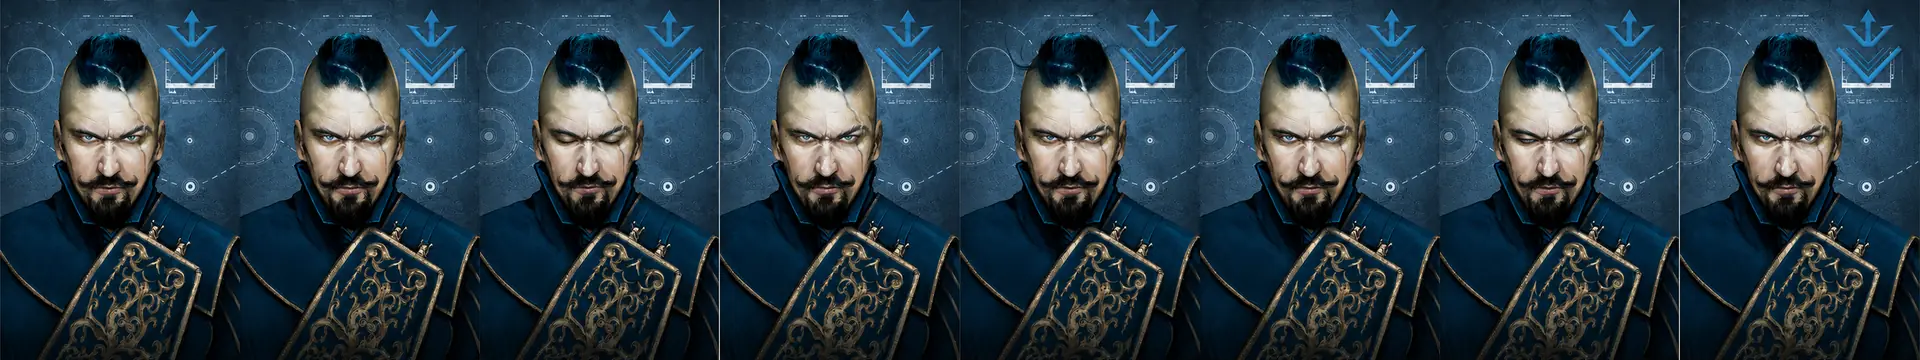
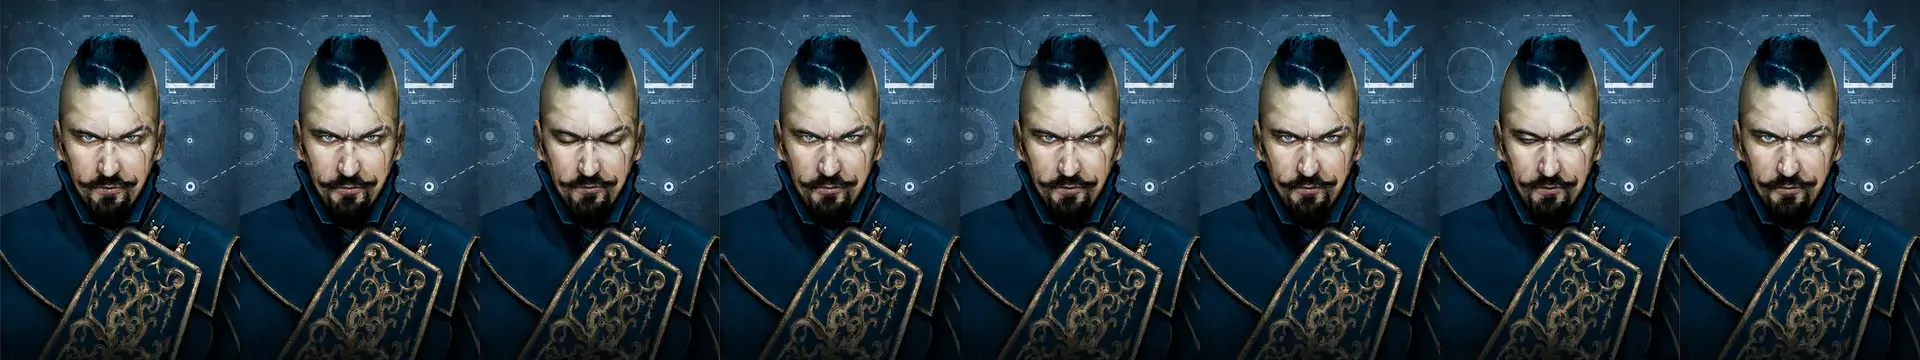
fix: Duke and Captain drifted inside their frames - it was the source art
Reported on BOTH platforms: "the cards appear to be shifting in position
inside their frames" during the idle cycle. Measured, by finding the (dx, dy)
that best aligns each frame to frame 1:

  duke     (0,0) (-1,0) (-3,0) (-4,0) (0,-3) (-1,-2) (-3,-3) (-4,-3)
  captain  (0,0) (-1,0) ( 1,0) ( 3,0) (-1,0) (-1, 0) ( 1, 0) ( 2, 0)
  ambassador / assassin / contessa   all (0,0)

Only two of five characters, which is what makes it art rather than code.
Duke's pattern names the cause: horizontal drift accumulating across four
columns, then the same horizontal pattern again with a ~3 px vertical
offset - a 4x2 source grid whose second row sits low, cut on a uniform grid.

Both converters are exonerated by proportion, not by inspection: the drift is
1 px of 64 on Saturn (1.6%) and 4 px of 240 on the web (1.7%). Scaling a
mis-registered source scales its mis-registration too; a converter bug would
not preserve the ratio across two independent pipelines.

Frames are now registered by undoing the measured shift, with the exposed
border filled by edge replication - invisible at 1-4 px on a full-bleed
portrait, where a transparent or black gap would not be.

I got the sign wrong on the first attempt and the drift DOUBLED to 8 px. That
is worth recording: the gate caught my fix making it worse, which is the
whole reason for measuring after a change rather than declaring victory on
the edit. Restored from git and applied the opposite sign; now within 1 px.
[…]

diff --git a/scripts/qa/qa_portrait_registration.py b/scripts/qa/qa_portrait_registration.py
@@ -1,0 +1,166 @@
+#!/usr/bin/env python3
+"""
+qa_portrait_registration.py - Prove the portrait frames are registered.
+
+WHY THIS GATE EXISTS
+  Reported from both the Saturn and the web builds: "the cards appear to be
+  shifting in position inside their frames" during the idle animation.
+
+  It is not a converter bug. It is in the delivered art, and it is only in
+  two of the five characters. MEASURED by finding, for each frame, the (dx,
+  dy) that best aligns it to frame 1:
+
+    duke     (0,0) (-1,0) (-3,0) (-4,0) (0,-3) (-1,-2) (-3,-3) (-4,-3)
+    captain  (0,0) (-1,0) ( 1,0) ( 3,0) (-1,0) (-1, 0) ( 1, 0) ( 2, 0)
+    ambassador / assassin / contessa: all (0,0)
+
+  Duke's pattern gives the cause away - horizontal drift accumulating across
+  four columns, then the same horizontal pattern repeated with a ~3 px
+  vertical offset. That is a 4x2 source grid whose second row sits low, cut
+  on a uniform grid.
+
+  The drift is the same PROPORTION on both platforms - 1 px of 64 on Saturn
+  (1.6%), 4 px of 240 on the web (1.7%) - which is what rules the converters
+  out. Scaling a mis-registered source scales the mis-registration with it.
+
+HOW IT MEASURES
+  Brute-force sum-of-squared-difference over a small shift window, against
+  frame 1 of the same character. Pure geometry: it does not care what the
+  character looks like, only whether successive frames sit in the same place.
+
+NEGATIVE CONTROL
+  --selftest shifts a known-good character's frames by a known amount and
+  requires the measurement to recover exactly that shift. A registration
+  check that cannot detect a deliberate 3 px offset cannot be trusted to
+  report zero.
+"""
+
+import argparse
+import glob
+import os
+import sys
+
+import numpy as np
+from PIL import Image
+
+# One pixel of play is the quantisation floor once a 64 px frame has been
+# resampled; beyond that the eye reads it as the figure bobbing.
+MAX_DRIFT_PX = 1
+
+SATURN_DIR = ("examples/coup/assets/Official Art/coup_saturn_complete_asset_pack/"
+              "coup_saturn_complete_asset_pack/saturn_ready/portraits")
+WEB_GLOB = "web-staging/assets/portraits/*"
+FRAMES = 8
+
+
+def best_shift(ref, img, radius):
+    h, w = ref.shape
+    best = (float("inf"), 0, 0)
+    for dy in range(-radius, radius + 1):
+        for dx in range(-radius, radius + 1):
+            a = ref[max(0, dy):h + min(0, dy), max(0, dx):w + min(0, dx)]
+            b = img[max(0, -dy):h + min(0, -dy), max(0, -dx):w + min(0, -dx)]
+            if a.size == 0:
+                continue
+            d = float(np.mean((a - b) ** 2))
+            if d < best[0]:
+                best = (d, dx, dy)
+    return best[1], best[2]
+
+
+def drift(frames, radius):
+    ref = frames[0]
+    shifts = [best_shift(ref, f, radius) for f in frames]
+    dxs = [s[0] for s in shifts]
+    dys = [s[1] for s in shifts]
+    return shifts, max(dxs) - min(dxs), max(dys) - min(dys)
+
+
+def saturn_sets():
+    out = []
+    if not os.path.isdir(SATURN_DIR):
+        return out
+    for ch in sorted(os.listdir(SATURN_DIR)):
+        files = sorted(glob.glob(os.path.join(SATURN_DIR, ch, "*.png")))
+        if len(files) < 2:
+            continue
+        frames = [np.asarray(Image.open(f).convert("L"), dtype=float)
+                  for f in files]
+        out.append((f"saturn/{ch}", frames, max(3, frames[0].shape[1] // 12)))
+    return out
+
+
+def web_sets():
+    out = []
+    for path in sorted(glob.glob(WEB_GLOB)):
+        im = Image.open(path).convert("L")
+        w, h = im.size
+        fw = w // FRAMES
+        a = np.asarray(im, dtype=float)
+        frames = [a[:, i * fw:(i + 1) * fw] for i in range(FRAMES)]
+        out.append((f"web/{os.path.basename(path)}", frames, max(3, fw // 12)))
+    return out
+
+
+def main():
+    ap = argparse.ArgumentParser()
+    ap.add_argument("--selftest", action="store_true")
+    args = ap.parse_args()
+
+    sets = saturn_sets() + web_sets()
+    if not sets:
+        print("GATE PORTRAIT REGISTRATION: INCONCLUSIVE - no portrait sets "
+              "found; nothing measured")
+        return 2
+
+    fails = []
+    for name, frames, radius in sets:
+        shifts, rx, ry = drift(frames, radius)
+        worst = max(rx, ry)
+        fw = frames[0].shape[1]
+        mark = "" if worst <= MAX_DRIFT_PX else "   <-- DRIFTS"
+        print(f"  {name:26s} frame {fw:4d}px  dx {rx}  dy {ry}  "
+              f"({100.0 * worst / fw:.1f}% of width){mark}")
+        if worst > MAX_DRIFT_PX:
+            fails.append(f"{name}: frames move up to {worst} px "
+                         f"({100.0 * worst / fw:.1f}% of the frame) - "
+                         f"shifts {shifts}")
+
+    if args.selftest:
+        print()
+        # Take a set that measured clean and displace one frame deliberately.
+        clean = None
+        for name, frames, radius in sets:
+            _, rx, ry = drift(frames, radius)
+            if max(rx, ry) == 0:
+                clean = (name, frames, radius)
+                break
+        if clean is None:
+            print("  control: no clean set available to displace; skipping")
+        else:
+            name, frames, radius = clean
+            moved = list(frames)
+            moved[3] = np.roll(np.roll(frames[3], 3, axis=1), 2, axis=0)
+            _, rx, ry = drift(moved, radius)
+            print(f"  control: displaced one frame of {name} by (3, 2) -> "
+                  f"measured dx {rx}, dy {ry}")
+            if rx < 3 or ry < 2:
+                print()
+                print("GATE PORTRAIT REGISTRATION: RED - the measurement "
+                      "cannot recover a deliberate 3x2 px offset, so a zero "
+                      "from it means nothing")
+                return 1
+
+    print()
+    if fails:
+        print("GATE PORTRAIT REGISTRATION: RED")
+        for f in fails:
+            print("  - " + f)
+        return 1
+    print(f"GATE PORTRAIT REGISTRATION: GREEN - all {len(sets)} portrait sets "
+          f"hold position within {MAX_DRIFT_PX} px")
+    return 0
+
+
+if __name__ == "__main__":
+    sys.exit(main())
